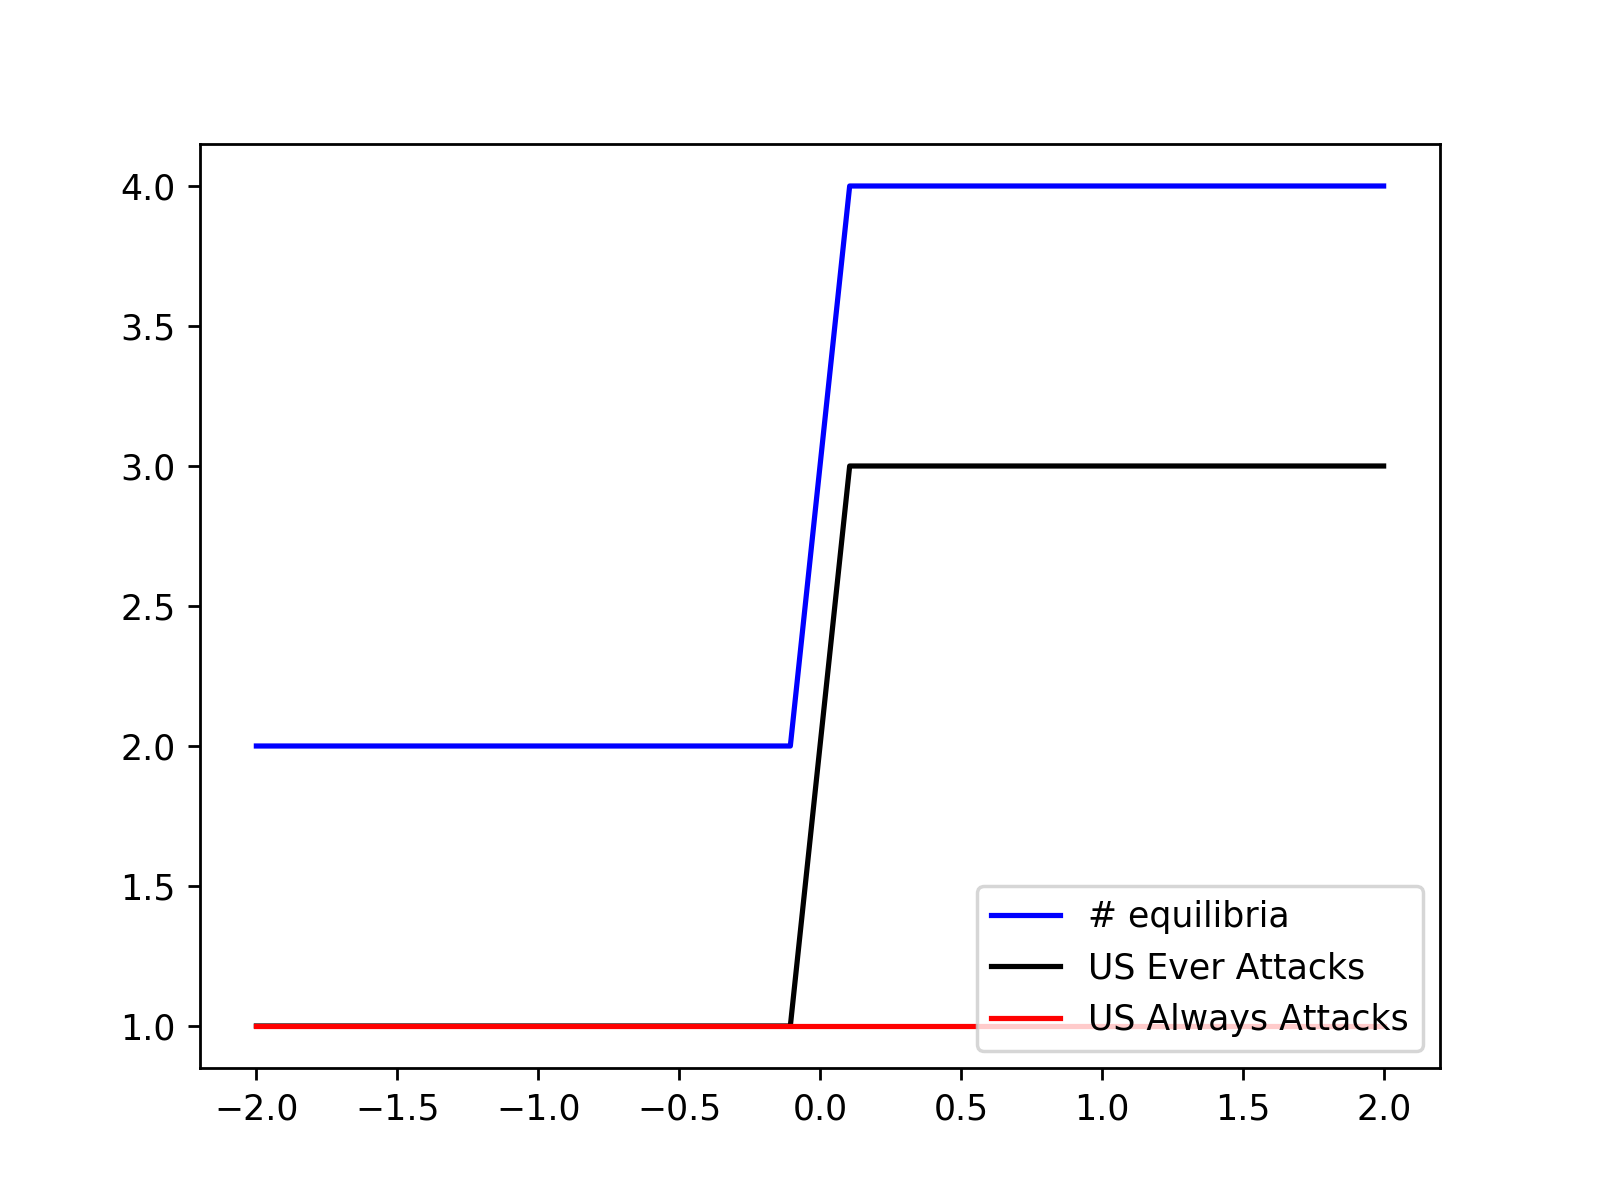
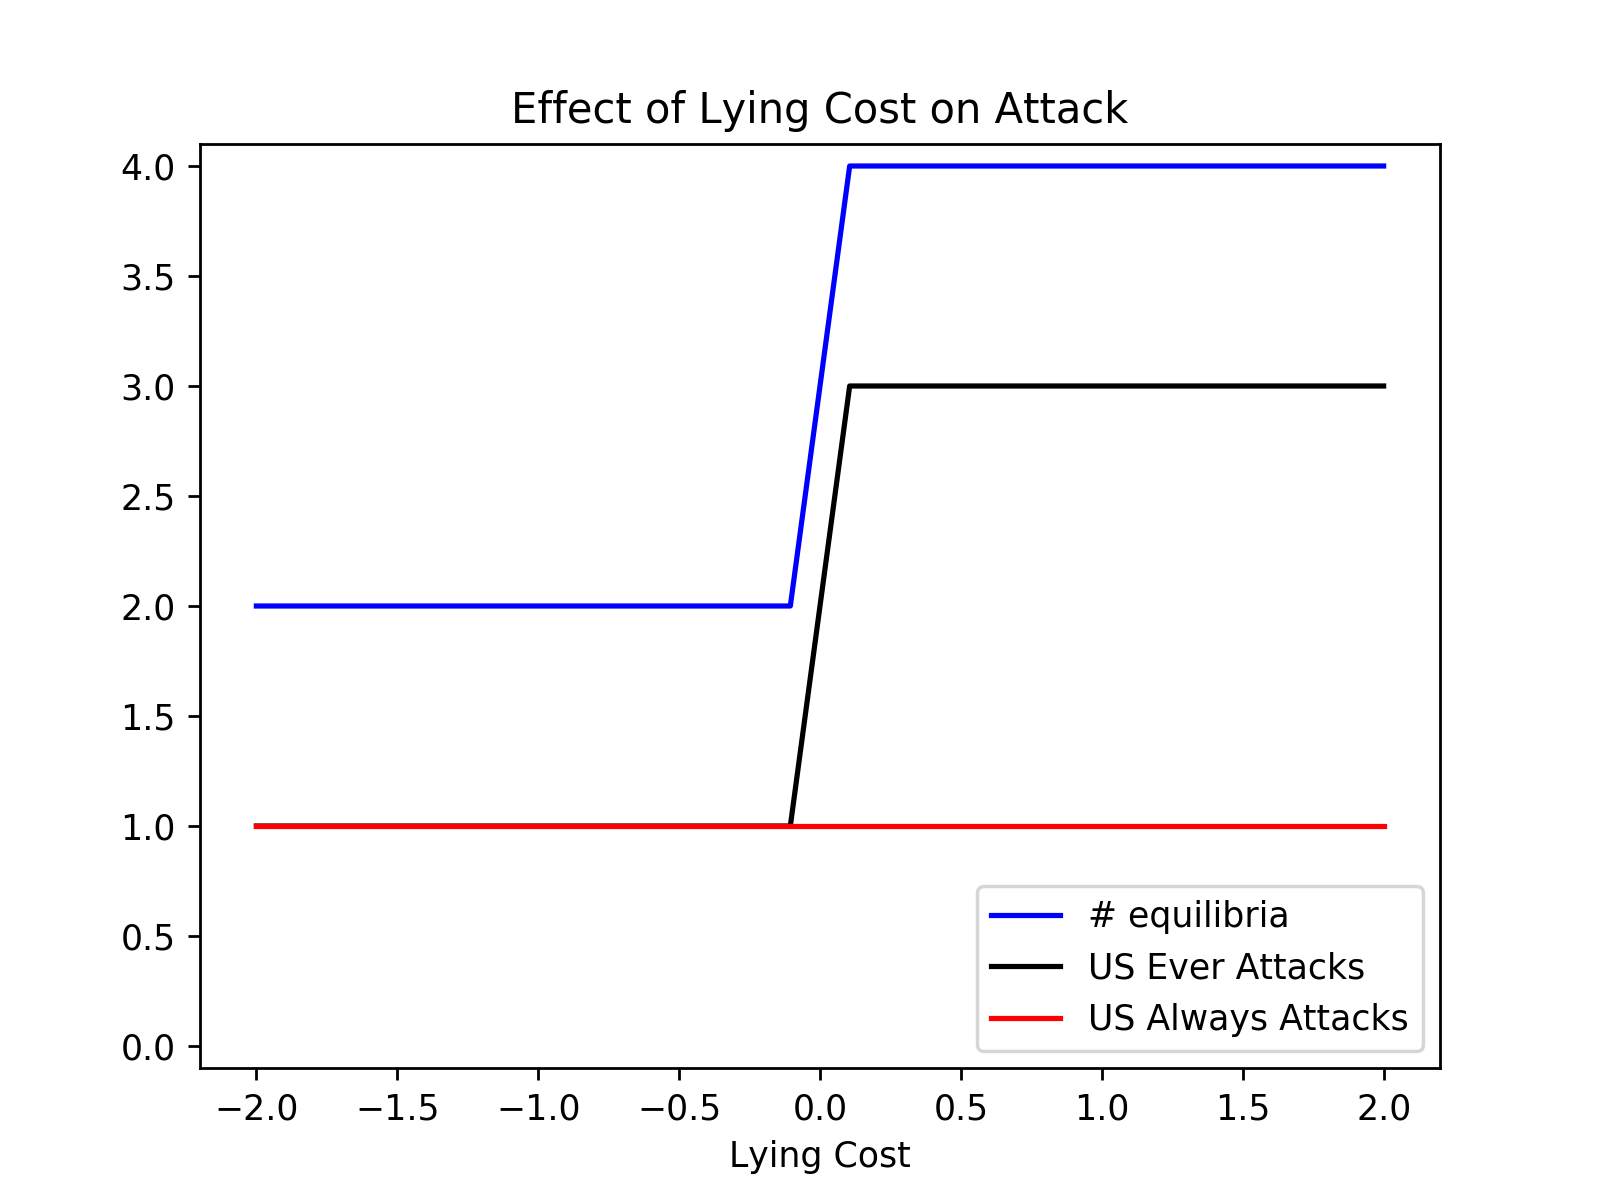
plots work

diff --git a/main.py b/main.py
@@ -358,18 +358,25 @@ def lying():
 
 		# trueeq = [rational, eq, [alphaL,qL]]
 
+
+	plt.title("Effect of Lying Cost on Attack")
+	plt.xlabel("Lying Cost")
 	plt.plot(lies,pbeCounts, color = "blue", label ="# equilibria")
 	plt.plot(lies,everAttacks, color = "black", label ="US Ever Attacks")
 	plt.plot(lies,alwaysAttacks, color = "red", label = "US Always Attacks")
 	plt.legend(loc = 'lower right')
+	plt.ylim(-0.1,4.1)
 	plt.savefig("lie1.png", dpi=250)
 
 	plt.cla()
 
+	plt.title("Effect of Lying Cost on Truth Telling")
+	plt.xlabel("Lying Cost")
 	plt.plot(lies,pbeCounts, color = "blue", label ="# equilibria")
 	plt.plot(lies,everTruths, color = "black", label ="DPRK Ever Tells Truth")
 	plt.plot(lies,alwaysTruths, color = "red", label = "DPRK Always Tells Truth")
 	plt.legend(loc = 'lower right')
+	plt.ylim(-0.1,4.1)
 	plt.savefig("truth1.png", dpi=250)
 
 	plt.cla()
